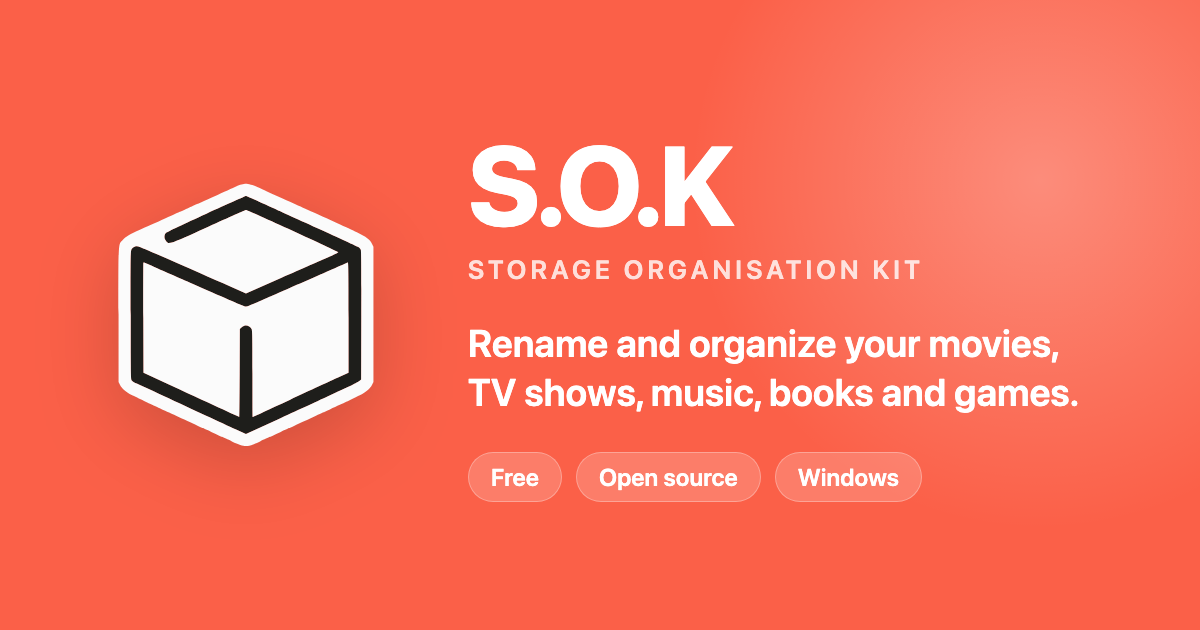
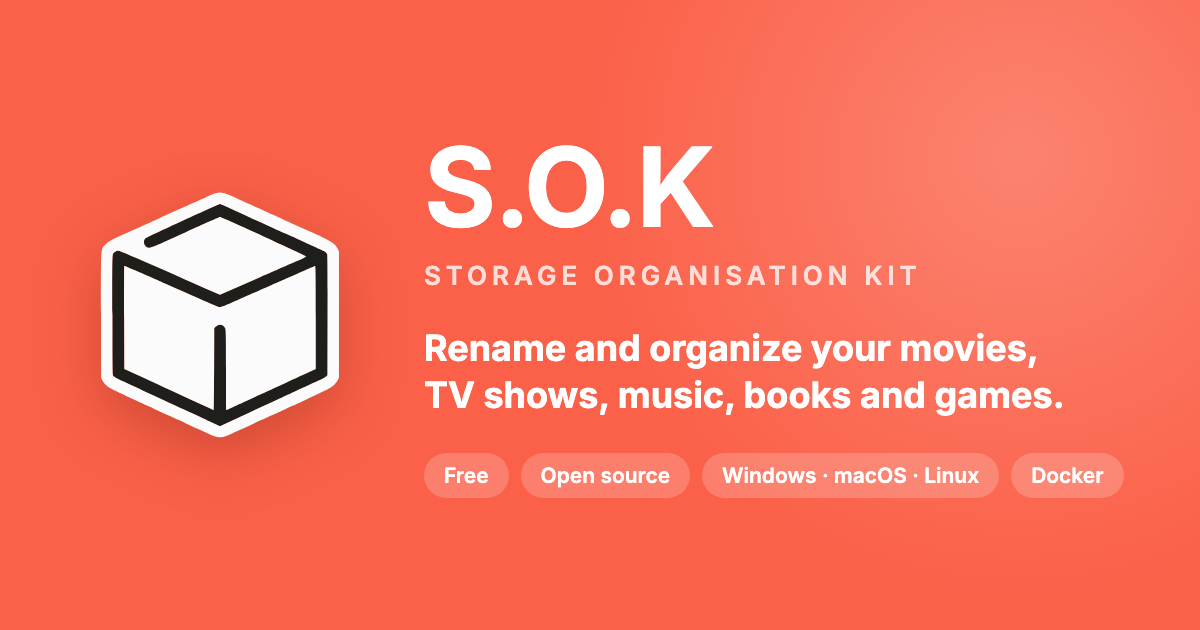
feat(seo): add a link preview to the demo and list all platforms in the site preview
The demo page gets its own preview image (og-demo.png) and tags. The site
preview listed only Windows: it now shows Windows, macOS, Linux and
Docker, and its address changes (?v=2) so that apps fetch it again.

Changed region(s): [[0.0617, 0.2714, 0.8942, 0.7238], [0.3392, 0.6937, 0.9558, 0.8143], [0.3392, 0.2111, 0.6167, 0.3619]]

diff --git a/public/demo/index.html b/public/demo/index.html
@@ -4,9 +4,23 @@
     <meta charset="UTF-8" />
     <meta name="viewport" content="width=device-width, initial-scale=1" />
     <link rel="icon" type="image/svg+xml" href="/demo/favicon.svg" />
-    <title>S.O.K Server</title>
+    <title>S.O.K Server — Live demo</title>
     <script type="module" crossorigin src="/demo/assets/index-DdAKl_Fd.js"></script>
     <link rel="stylesheet" crossorigin href="/demo/assets/index-Bx6_U_ta.css">
+    <meta name="description" content="Try the web interface of S.O.K Server in your browser, with an example library. Nothing to install.">
+    <meta property="og:type" content="website">
+    <meta property="og:site_name" content="S.O.K">
+    <meta property="og:url" content="https://sokfromsokteam.vercel.app/demo">
+    <meta property="og:title" content="S.O.K Server — Live demo">
+    <meta property="og:description" content="Try the web interface of S.O.K Server in your browser, with an example library. Nothing to install.">
+    <meta property="og:image" content="https://sokfromsokteam.vercel.app/og-demo.png">
+    <meta property="og:image:width" content="1200">
+    <meta property="og:image:height" content="630">
+    <meta property="og:image:alt" content="S.O.K Server, live demo">
+    <meta name="twitter:card" content="summary_large_image">
+    <meta name="twitter:title" content="S.O.K Server — Live demo">
+    <meta name="twitter:description" content="Try the web interface of S.O.K Server in your browser, with an example library. Nothing to install.">
+    <meta name="twitter:image" content="https://sokfromsokteam.vercel.app/og-demo.png">
   </head>
   <body>
     <div id="app"></div>

diff --git a/src/lib/seo.js b/src/lib/seo.js
@@ -9,7 +9,7 @@ export function softwareApplicationSchema(release, site) {
     description:
       'Free, open-source app for Windows, macOS and Linux that identifies, renames and organizes movies, TV shows, music, books and games into a library compatible with Plex, Jellyfin and Kodi.',
     url: new URL('/', site).href,
-    image: new URL('/og-image.png', site).href,
+    image: new URL('/og-image.png?v=2', site).href,
     applicationCategory: 'MultimediaApplication',
     operatingSystem: 'Windows 10, Windows 11, macOS, Linux',
     softwareVersion: release.version,
